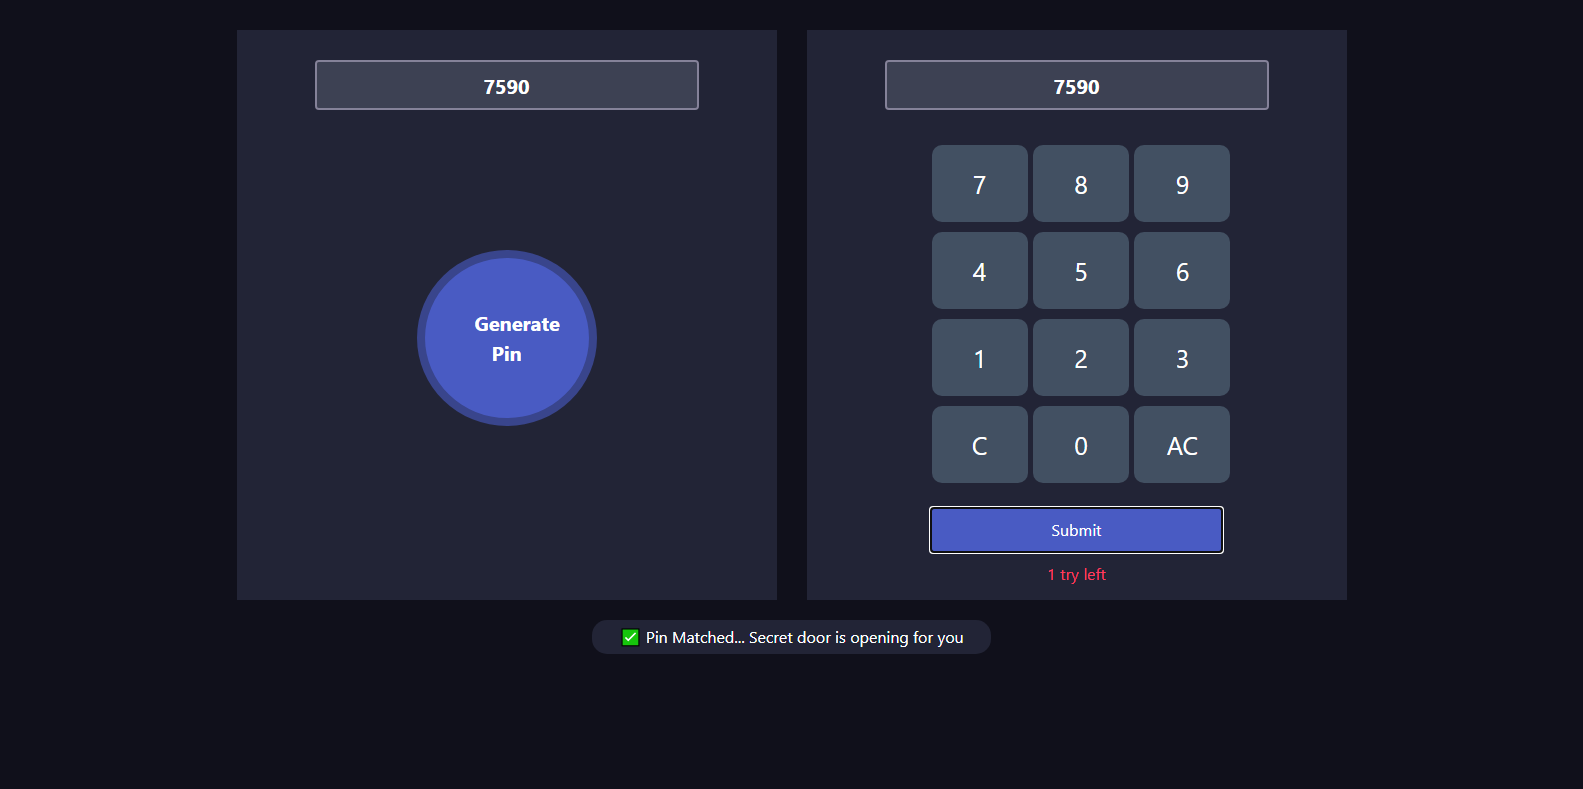
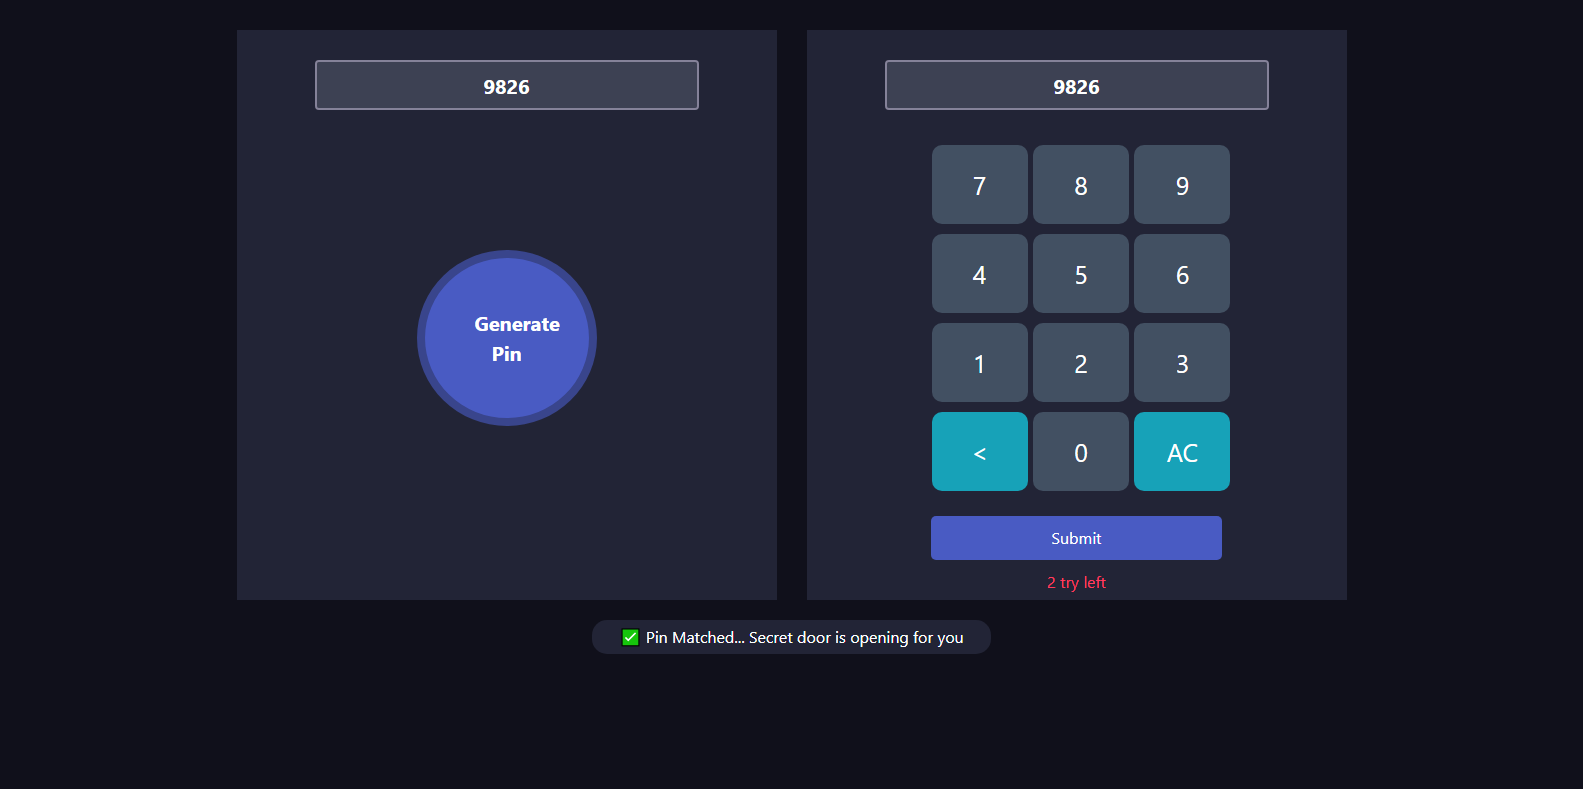
added input edge cases and improve few if-else logic

diff --git a/index.html b/index.html
@@ -15,120 +15,136 @@
         <div class="row">
             <div class="col-md-6">
                 <div class="pin-generator half-width">
-                    <input id="generated-pin-number" class="form-control" type="text">
-                    <button id="generate-pin" class="generate-btn" onclick="randomPinNumber()">Generate Pin</button>
+                    <input id="generated-pin-number" class="form-control" type="text" placeholder="Click Generate Pin">
+                    <button id="generate-pin" class="generate-btn btn" onclick="randomPinNumber()">Generate Pin</button>
                 </div>
             </div>
             <div class="col-md-6">
                 <div class="input-section half-width">
-                    <input id="user-input" class="form-control" type="text">
+                    <input id="user-input" class="form-control" type="text" placeholder="Enter 4-digit code">
                     <div class="numbers">
                         <div class="calc-body">
                             <div class="calc-button-row">
-                                <div class="button" onclick="insert(7)">7</div>
-                                <div class="button" onclick="insert(8)">8</div>
-                                <div class="button" onclick="insert(9)">9</div>
+                                <div class="button btn" onclick="insert(7)">7</div>
+                                <div class="button btn" onclick="insert(8)">8</div>
+                                <div class="button btn" onclick="insert(9)">9</div>
                             </div>
                             <div class="calc-button-row">
-                                <div class="button" onclick="insert(4)">4</div>
-                                <div class="button" onclick="insert(5)">5</div>
-                                <div class="button" onclick="insert(6)">6</div>
+                                <div class="button btn" onclick="insert(4)">4</div>
+                                <div class="button btn" onclick="insert(5)">5</div>
+                                <div class="button btn" onclick="insert(6)">6</div>
                             </div>
                             <div class="calc-button-row">
-                                <div class="button" onclick="insert(1)">1</div>
-                                <div class="button" onclick="insert(2)">2</div>
-                                <div class="button" onclick="insert(3)">3</div>
+                                <div class="button btn" onclick="insert(1)">1</div>
+                                <div class="button btn" onclick="insert(2)">2</div>
+                                <div class="button btn" onclick="insert(3)">3</div>
                             </div>
                             <div class="calc-button-row">
-                                <div class="button" onclick="backspace()"> C </div>
-                                <div class="button" onclick="insert(0)">0</div>
-                                <div class="button" onclick="clearAll(), removeMessage()">AC</div>
-                            </div>
-                            <div>
-                                <button id="submit-button" type="submit" class="submit-btn">Submit</button>
-                                <p class="action-left"><span id="count-number">3</span> try left</p>
+                                <div class="button btn bg-info" onclick="backspace()">
+                                    < </div>
+                                        <div class="button btn" onclick="insert(0)">0</div>
+                                        <div class="button btn bg-info" onclick="clearAll()">AC</div>
+                                </div>
+                                <div>
+                                    <button id="submit-button" type="submit" class="submit-btn btn">Submit</button>
+                                    <p class="action-left" title="You can try only 3 times"><span
+                                            id="count-number">3</span>
+                                        try left</p>
+                                </div>
                             </div>
                         </div>
                     </div>
                 </div>
+                <div class="notify-section">
+                    <p id="not-matched" class="notify">❌ Pin Didn't Match, Please try again</p>
+                    <p id="matched" class="notify">✅ Pin Matched... Secret door is opening for you</p>
+                </div>
             </div>
-            <div class="notify-section">
-                <p id="not-matched" class="notify">❌ Pin Didn't Match, Please try again</p>
-                <p id="matched" class="notify">✅ Pin Matched... Secret door is opening for you</p>
-            </div>
-        </div>
 
-        <script>
+            <script>
 
-            function match() {
-                const generatedNumber = document.getElementById('generated-pin-number').value;
-                const userInputNumber = document.getElementById('user-input').value;
-                if (generatedNumber == userInputNumber) {
-                    const matchedNumber = document.getElementById('matched');
-                    matchedNumber.style.display = "block";
+                function match() {
+                    const generatedNumber = document.getElementById('generated-pin-number').value;
+                    const userInputNumber = document.getElementById('user-input').value;
 
-                } else {
-                    const matchedNumber = document.getElementById('not-matched');
-                    matchedNumber.style.display = "block";
-                    chanceLeft();
+                    if (generatedNumber == '' || userInputNumber == '') {
+                        if (generatedNumber == '') {
+                            alert('Generate Pin Number First. Click "Generate Pin" Button To Generate Pin Number.')
+                        }
+                        else {
+                            alert('Enter the 4 digit code by using the Number pad.');
+                        }
+                        return;
+                    }
+                    if (generatedNumber == userInputNumber) {
+                        const matchedNumber = document.getElementById('matched');
+                        matchedNumber.style.display = "block";
+                        document.getElementById('not-matched').style.display = "none";
+
+
+                    } else {
+                        const matchedNumber = document.getElementById('not-matched');
+                        matchedNumber.style.display = "block";
+                        document.getElementById('matched').style.display = "none";
+                        chanceLeft();
+                    }
                 }
-            }
-            document.getElementById('submit-button').addEventListener('click', match);
+                document.getElementById('submit-button').addEventListener('click', match);
 
 
-            function randomPinNumber() {
-                const randomDigit = document.getElementById('generate-pin').addEventListener('click', randomNumber());
-                removeMessage();
-            }
-
-            function removeMessage() {
-                document.getElementById('matched').style.display = "none";;
-                document.getElementById('not-matched').style.display = "none";
-                document.getElementById('user-input').value = "";
-                document.getElementById('count-number').innerText = 3;
-            }
-
-
-            // Random 4 digit generator
-            function randomNumber() {
-                const number = Math.floor(1000 + Math.random() * 9000);
-                document.getElementById('generated-pin-number').value = number;
-
-            }
-
-            // insert number
-            function insert(number) {
-                document.getElementById('user-input').value = document.getElementById('user-input').value + number;
-            }
-
-            // clear all
-            function clearAll() {
-                document.getElementById('user-input').value = "";
-            }
-
-            // remove last digit 
-            function backspace() {
-                var number = document.getElementById('user-input').value;
-                number = number.substring(0, number.length - 1);
-                document.getElementById('user-input').value = number;
-            }
-
-            function chanceLeft() {
-                var counter = document.getElementById('count-number').innerText;
-                var count = parseInt(counter);
-                const generatedNumber = document.getElementById('generated-pin-number').value;
-                const userInputNumber = document.getElementById('user-input').value;
-                if (generatedNumber != userInputNumber) {
-                    document.getElementById('count-number').innerText = --counter;
+                function randomPinNumber() {
+                    const randomDigit = document.getElementById('generate-pin').addEventListener('click', randomNumber());
+                    removeMessage();
                 }
-                if (counter == 0) {
-                    document.getElementById("submit-button").disabled = true;
-                    alert('You Lost All 3 Chances. Reload The Page For Try Again.')
+
+                function removeMessage() {
+                    document.getElementById('matched').style.display = "none";;
+                    document.getElementById('not-matched').style.display = "none";
+                    document.getElementById('user-input').value = "";
+                    document.getElementById('count-number').innerText = 3;
                 }
-            }
 
 
-        </script>
+                // Random 4 digit generator
+                function randomNumber() {
+                    const number = Math.floor(1000 + Math.random() * 9000);
+                    document.getElementById('generated-pin-number').value = number;
+
+                }
+
+                // insert number
+                function insert(number) {
+                    document.getElementById('user-input').value = document.getElementById('user-input').value + number;
+                }
+
+                // clear all input numbers
+                function clearAll() {
+                    document.getElementById('user-input').value = "";
+                }
+
+                // remove last digit 
+                function backspace() {
+                    var number = document.getElementById('user-input').value;
+                    number = number.substring(0, number.length - 1);
+                    document.getElementById('user-input').value = number;
+                }
+
+                function chanceLeft() {
+                    var counter = document.getElementById('count-number').innerText;
+                    var count = parseInt(counter);
+                    const generatedNumber = document.getElementById('generated-pin-number').value;
+                    const userInputNumber = document.getElementById('user-input').value;
+                    if (generatedNumber != userInputNumber) {
+                        document.getElementById('count-number').innerText = --counter;
+                    }
+                    if (counter == 0) {
+                        document.getElementById("submit-button").disabled = true;
+                        alert('You Lost All 3 Chances. Reload The Page For Try Again.')
+                    }
+                }
+
+
+            </script>
 </body>
 
 </html>
